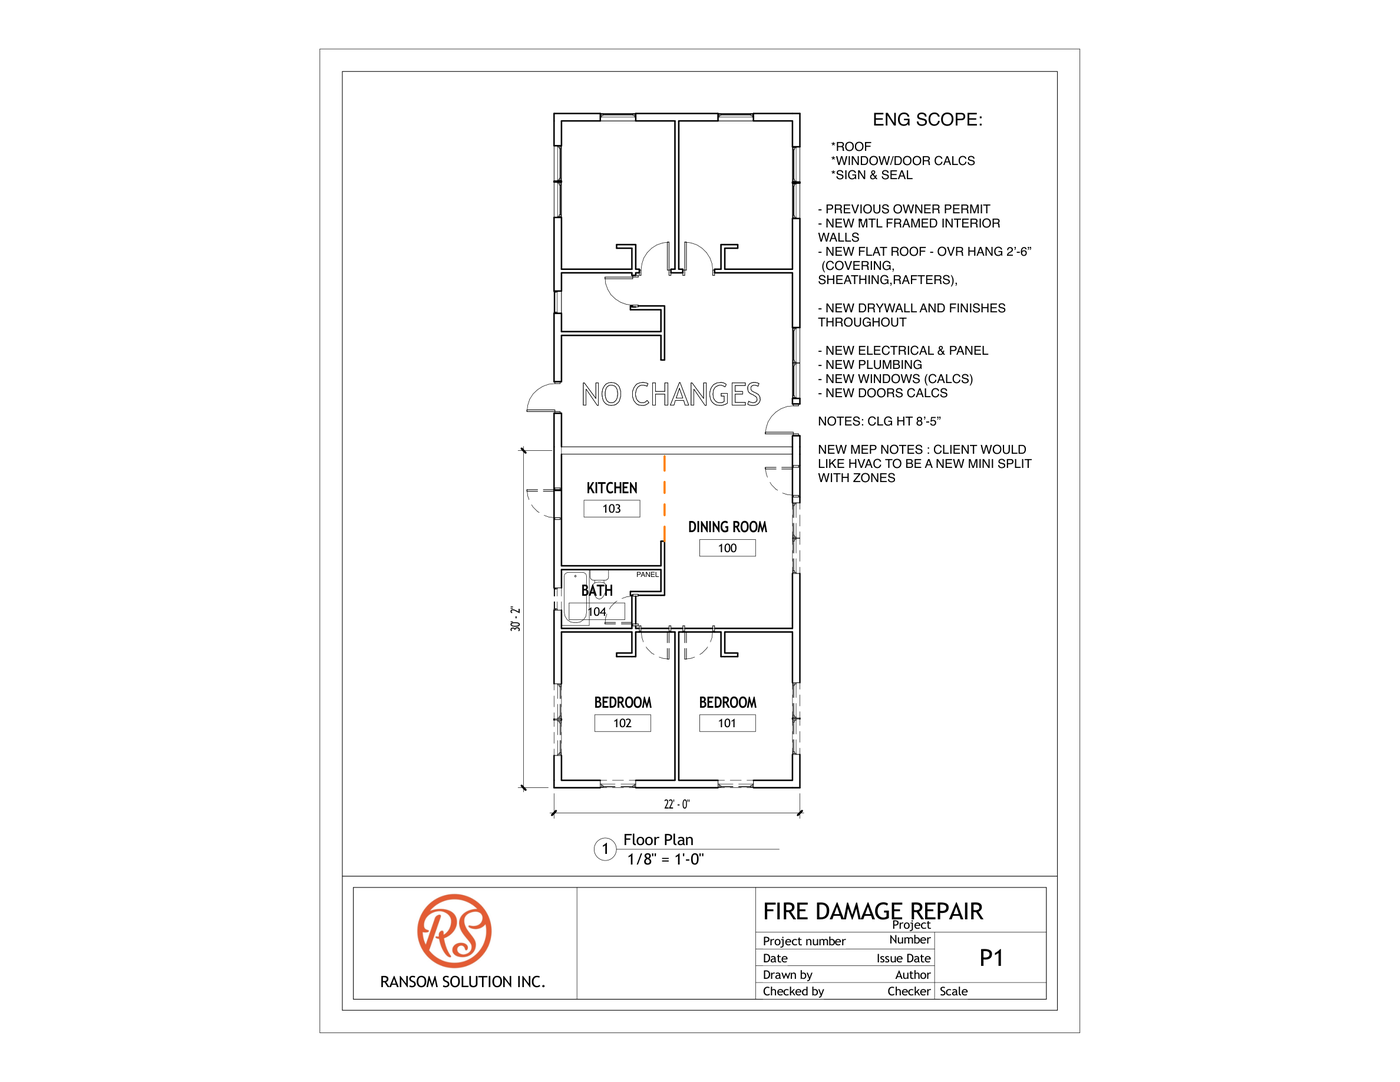
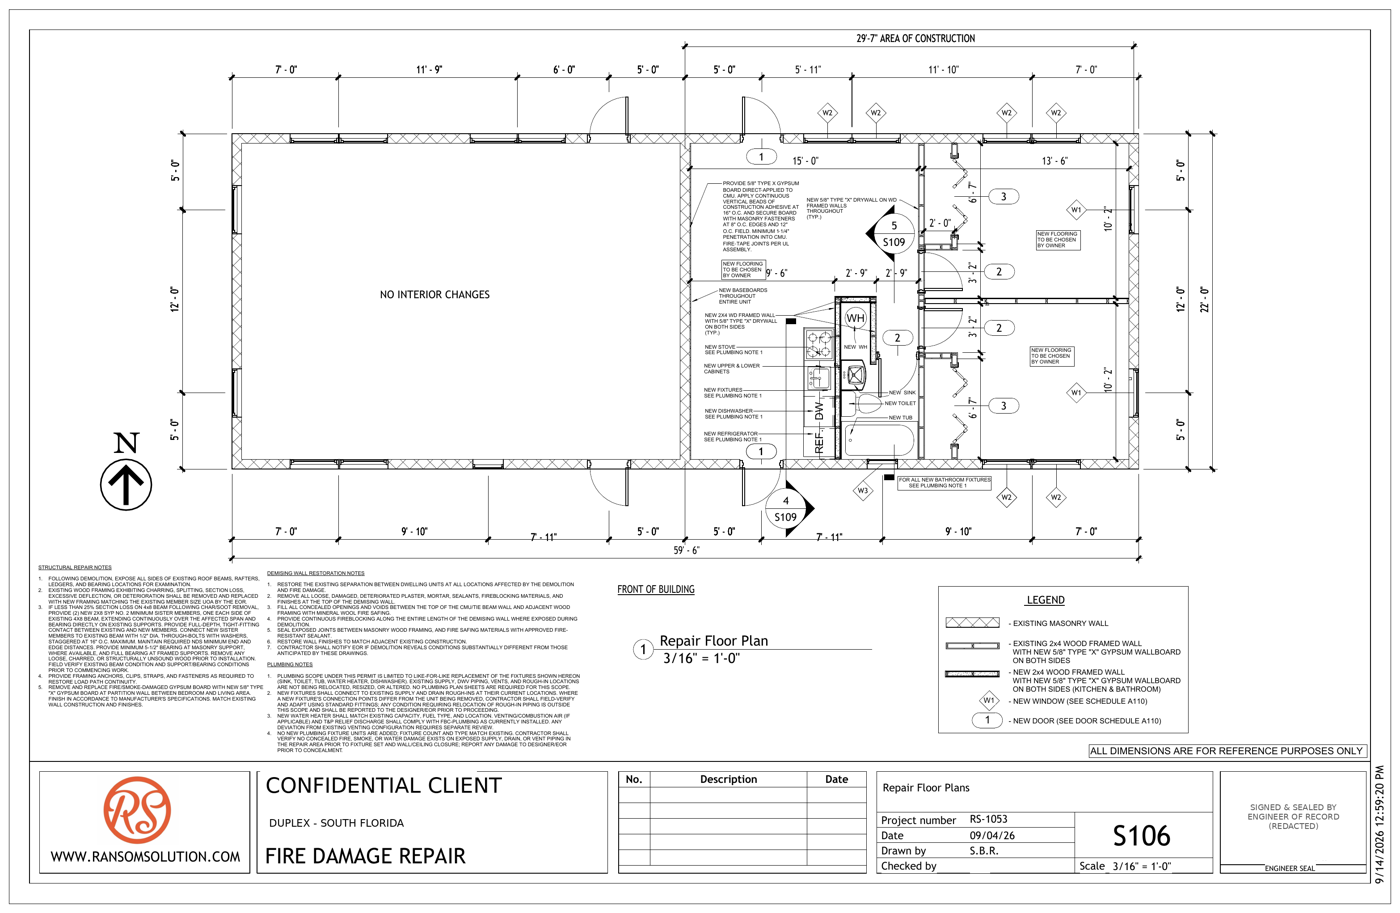
Update fire damage repair sheet image (S106) and project description
Replaces the floor plan image with the current revised repair floor plan,
with client name, address, and engineer seal redacted.

Claude-Session: https://claude.ai/code/session_012mJ5mMfqCZmtHqGK1GpFGD

diff --git a/index.html b/index.html
@@ -395,9 +395,9 @@ const PROJECTS = [
     county:"Palm Beach County",
     cats:["RES","ASB","P2C"],
     tools:"Revit, AutoCAD",
-    desc:"Challenge: take a fire-damaged residence from field documentation through a full repair design, coordinated with a mechanical/electrical/plumbing engineer. Result: a complete Revit-based repair model and drawing set covering demolition, framing, and MEP tie-ins, paired with field photo and video documentation.",
+    desc:"Challenge: take a fire-damaged residence from field documentation through a full repair design, coordinated with a mechanical/electrical/plumbing engineer. Result: a 16-sheet, engineer-sealed permit set for a fire-damaged duplex unit, covering demolition, new roof framing, fire-rated demising-wall repair, windows and doors, and MEP plans under the 2023 Florida Building Code, paired with field photo and video documentation.",
     images:[
-      {src:"RS-RES-03_fire-damage-repair-floorplan", alt:"Fire damage repair floor plan, Ransom Solution title block"},
+      {src:"RS-RES-03_fire-damage-repair-floorplan", alt:"Sheet S106 repair floor plan for a fire-damaged duplex unit, Ransom Solution title block"},
       {src:"RS-ASB-23_fire-damage-early-concept", alt:"Early field documentation photo, fire-damaged framing"},
       {src:"RS-ASB-24_fire-damage-site-IMG0114jpeg", alt:"Site documentation photo, interior fire damage"},
       {src:"RS-ASB-31_fire-damage-site-IMG58481jpeg", alt:"Site documentation photo, structural framing damage"}
